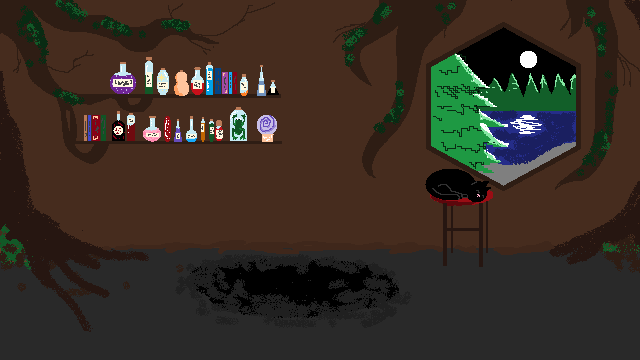
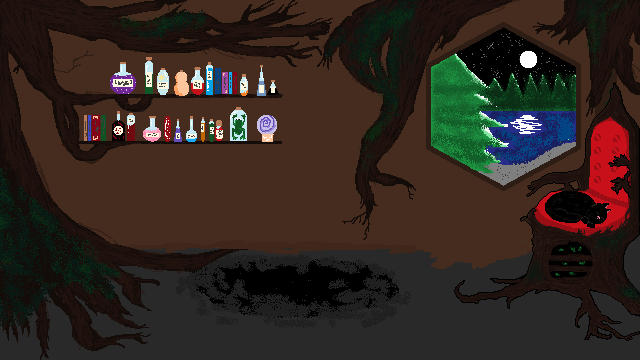
Bog Witch: new hut background, rest or tea, cauldron on the soot and witch on the right; remove the Drill Sergeant

Changed region(s): [[0.0, 0.0, 1.0, 0.9472], [0.0, 0.3667, 0.375, 1.0], [0.2812, 0.2444, 0.3438, 0.275]]

diff --git a/js/20-events.js b/js/20-events.js
@@ -229,15 +229,12 @@ Object.assign(EVENTS,{
   statue:{t:'Statue of Valour',art:'statue',d:'A stone hero, sword raised. People leave offerings at its feet, and some say it answers.',o:[
     {l:'One unit kneels',sub:'+2 Str or Mag for good',go:async()=>{const u=await pickUnit('Who kneels?','+2 Str (Mag for casters) for good.');if(!u)return null;const s=powS(u);bump(u,s,2);sfx('ding');return`${u.name} rises stronger (+2 ${SN[s]}).`}},
     {l:'Everyone leaves an offering',sub:'Every unit +1 Def',go:async()=>{run.roster.forEach(u=>u.def++);sfx('ding');return'The stone seems to nod. Every unit gains 1 Def.'}}]},
-  drill:{t:'The Drill Sergeant',art:'drill',d:'A drill sergeant barks at nobody in an empty yard. “You lot! Footwork! Now!”',o:[
-    {l:'Pay for a private lesson',sub:'One unit +2 Spd for good',cost:30,go:async()=>{const u=await pickUnit('Who takes the lesson?','+2 Spd for good.');if(!u)return null;spend(30);bump(u,'spd',2);sfx('ding');return`${u.name} can barely walk afterwards, but they’re quicker (+2 Spd).`}},
-    {l:'Join the free drill',sub:'Every unit +1 Spd; Weary Legs next fight (−1 Move)',go:async()=>{run.roster.forEach(u=>u.spd++);addWoe('weary',1);sfx('ding');return'Laps until everyone drops. Every unit gains 1 Spd, but legs will be heavy next fight.'}}]},
   toll:{t:'The Toll Bridge',art:'bridge',d:'Armed thugs block the only bridge. “Forty gold a head. Well, forty gold for the lot of you.”',o:[
     {l:'Pay the toll',sub:'40 gold',cost:40,go:async()=>{spend(40);return'They step aside, grinning.'}},
     {l:'Fight through',sub:'Every unit gains 30 EXP; Wounded next fight (−5 HP)',go:async()=>{await expAll(run.roster,30);addWoe('wound',1);return'You clear the bridge. Everyone gains 30 EXP, but the squad is still bruised for the next fight.'}}]},
-  witch:{t:'The Bog Witch',art:'witch',fig:['witch','cauldron'],d:'A crooked hut, a bubbling pot, and a woman who already knows your names. “Coin for you, or a brew? Everything has a price.”',o:[
-    {l:'Take her gold',sub:'+60 gold; a random unit is Marked for 2 fights',go:async()=>{run.gold=gold()+60;const v=pick(run.roster);addWoe('marked',2,v);sfx('dark');return`She counts out 60 gold and points a bony finger at <b>${v.name}</b>. Enemies will go for them for the next 2 fights.`}},
-    {l:'Buy a brew',sub:'One unit +2 Res and +2 max HP for good',cost:25,go:async()=>{const u=await pickUnit('Who drinks?','+2 Res and +2 max HP for good.');if(!u)return null;spend(25);bump(u,'res',2);bump(u,'hp',2);sfx('heal');return`${u.name} gags it down. +2 Res, +2 max HP.`}},
+  witch:{t:'The Bog Witch',art:'witch',fig:['witch','cauldron'],d:'A crooked hut, a bubbling pot, and a woman who already knows your names. “At least stay for a cup of tea, won’t you?”',o:[
+    {l:'Rest for a while',sub:'Every unit heals to full HP',go:async()=>{run.roster.forEach(u=>u.hp=u.maxhp);sfx('heal');return'You doze by the fire while the pot bubbles. Everyone wakes up fully healed.'}},
+    {l:'Stay for a drink',sub:'One unit +1 Res and +2 max HP for good',go:async()=>{const u=await pickUnit('Who drinks?','+1 Res and +2 max HP for good.');if(!u)return null;bump(u,'res',1);bump(u,'hp',2);sfx('heal');return`${u.name} gags it down. +1 Res, +2 max HP.`}},
     {l:'Back away',go:async()=>'“Another time, then.”'}]},
   fog:{t:'The Strange Fog',art:'fog',d:'A thick white fog rolls over the road. There’s a shortcut through it, if you trust your feet.',o:[
     {l:'Take the shortcut',sub:'Every unit gains 40 EXP; Weary Legs for 2 fights (−1 Move)',go:async()=>{await expAll(run.roster,40);addWoe('weary',2);return'You stumble out the far side hours later. Everyone gains 40 EXP, but the squad is footsore for 2 fights.'}},

diff --git a/css/style.css b/css/style.css
@@ -666,7 +666,7 @@ button.it.sel{border-color:var(--gold)}
 .vp>.umenu.dl{left:10px}.vp>.umenu.dr{right:10px}
 /* hand-drawn event figures laid over the event scene: sizes are fractions of the 160x90 scene, so pixels match it */
 .ev-fig{position:absolute;bottom:0;image-rendering:pixelated;pointer-events:none}
-.ev-witch{left:4%;width:37%}
+.ev-witch{left:55%;width:30%;bottom:4%;transform:scaleX(-1)}
 .ev-well{left:34%;width:32%;bottom:12%}
 .ev-anvil{left:35%;width:30%;bottom:10%}
 .ev-altar{left:34%;width:32%;bottom:14%}
@@ -676,7 +676,7 @@ button.it.sel{border-color:var(--gold)}
 .ev-banner{left:12%;width:16%;top:3%;bottom:auto}
 .tv-scene .ev-ov2{position:absolute;image-rendering:pixelated;pointer-events:none}.ev-healer{left:62%;width:15%;bottom:16%;transform:scaleX(-1)}
 .ev-floor{position:absolute;left:0;right:0;bottom:0;height:31%;background:url(../art/scenes/red-floor.png) 0 0/6% auto repeat;filter:brightness(.75);image-rendering:pixelated;pointer-events:none}
-.ev-cauldron{left:38%;width:22%;bottom:10%}
+.ev-cauldron{left:36%;width:22%;bottom:12%}
 .ev-meteor{left:30%;width:40%;bottom:11%}
 
 /* abilities: MP bar, status chips, the ability list and its forecast */

diff --git a/docs/EVENTS.md b/docs/EVENTS.md
@@ -1,6 +1,6 @@
 # Events
 
 - Events (`EVENTS`, `js/20-events.js`) don't repeat within a run while fresh ones are left. They open a full-screen scene drawn for that event (`eventScene()`, tinted to the region), with choices underneath and the outcome shown in the same box: Wandering Smith, Abandoned Armoury, Blood Shrine, Training Ground, Travelling Merchant (3 items for gold), Gambler's Table (bet 30 for 60), The Golden Idol (rare relic for −2 max HP all round), The Caged Traveller (free unit), Healing Fountain (+3 max HP for one, or +1 Res for all), Wishing Well (25 gold for +1 Luck all round), Old Battlefield (search for gear at a risk, or +20 EXP).
-- More events: Storm Altar (only with Corvin in the squad; the Thunderhead Sigil is his), Specialist's Cache (crates matched to your squad: Longbow if you have an archer, Throwing Knives for a Rogue, Far Charm for a Mender, Spark Sigil for a caster, Rune Staff for a Summoner), Old Veteran, Statue of Valour, Drill Sergeant, Toll Bridge, Bog Witch, Strange Fog, Suspicious Chest, Ruined Library.
+- More events: Storm Altar (only with Corvin in the squad; the Thunderhead Sigil is his), Specialist's Cache (crates matched to your squad: Longbow if you have an archer, Throwing Knives for a Rogue, Far Charm for a Mender, Spark Sigil for a caster, Rune Staff for a Summoner), Old Veteran, Statue of Valour, Toll Bridge, Bog Witch, Strange Fog, Suspicious Chest, Ruined Library.
 - Act 2 only (`act:2`): Fallen Star (Meteor Sigil), Storm Spire (Heaven's Bolt or Far Charm), The Oracle, Mountain Sage, Dragon's Hoard.
 - Woes (`WOES`, `run.woes`): bad luck from events, shown in red on the map and counted down after each won fight. Wounded (every unit starts the next fight 5 HP down), Weary Legs (−1 Move), Marked (one unit acts as if it had Taunt).
